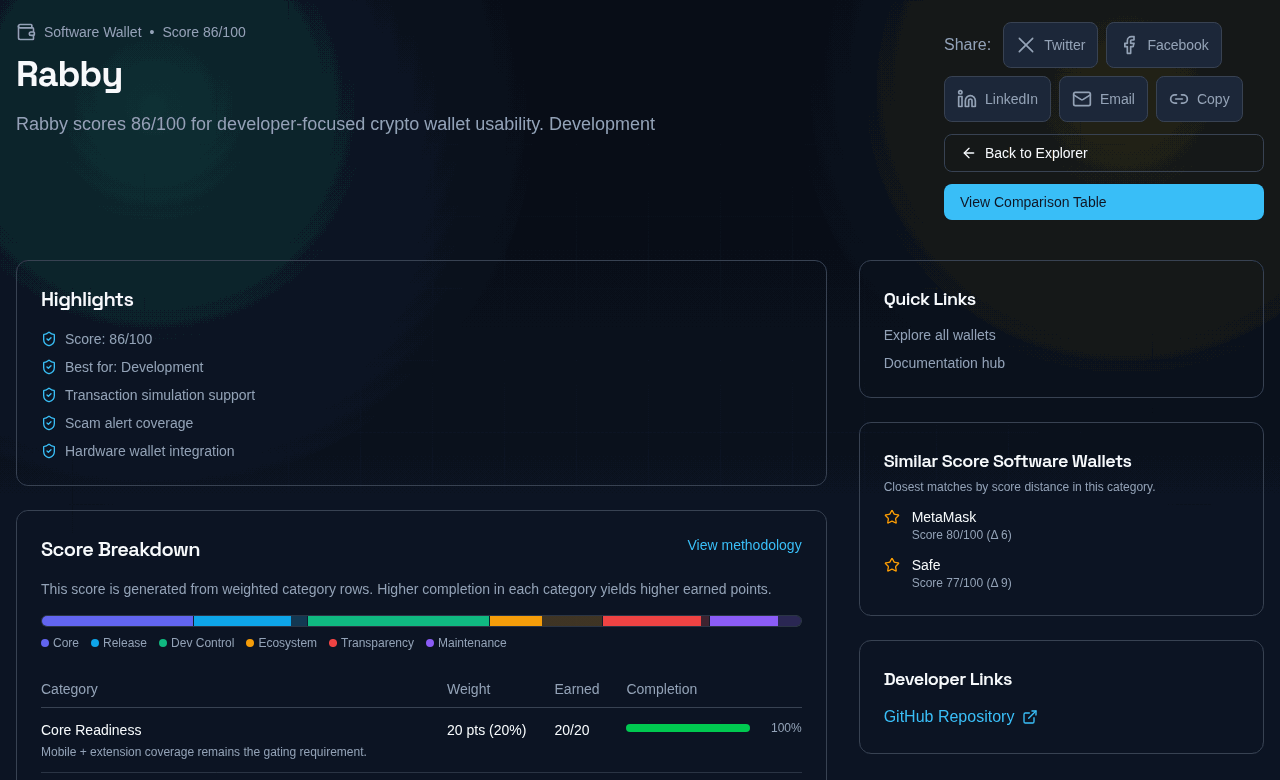
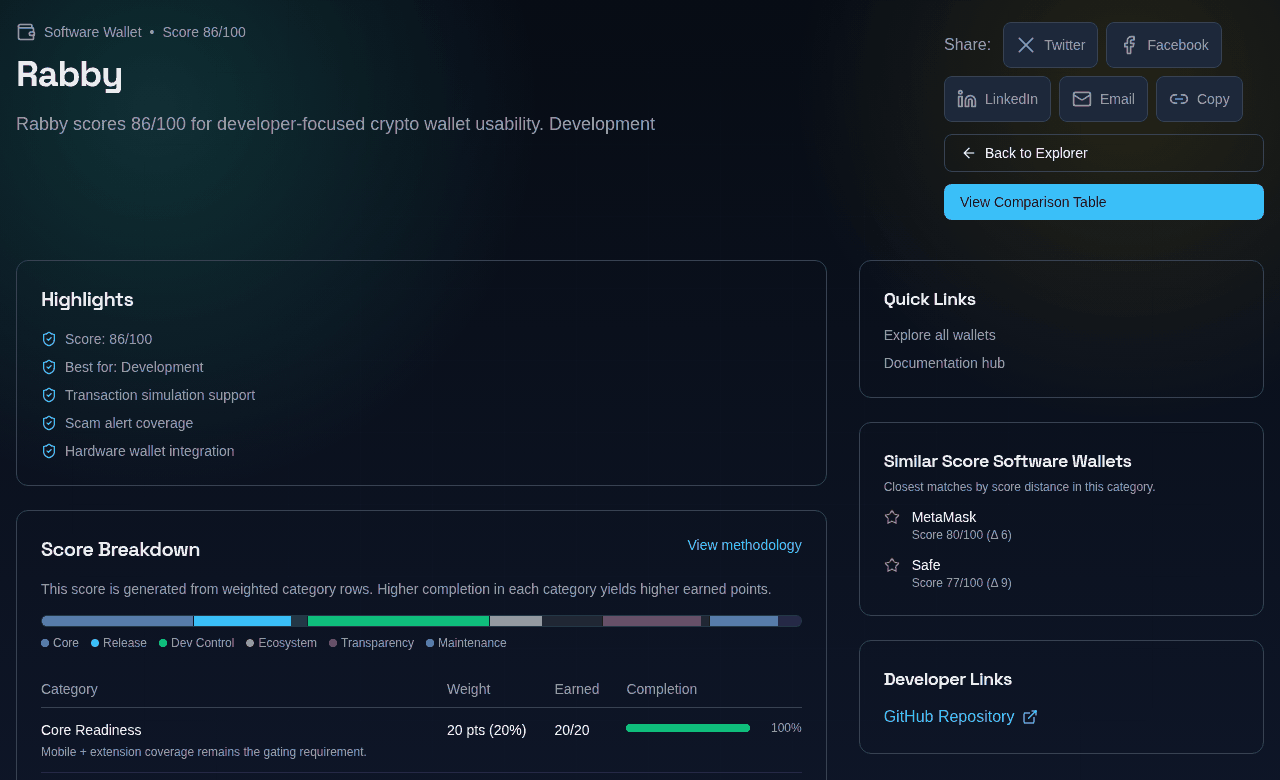
fix(ui): strip ~~ from bestFor; docs: align CONTRIBUTING scoring with code
wallet-data.ts no longer passes markdown strikethrough through bestFor for
cards, ramps and QR payments (vitest case added). CONTRIBUTING.md now
describes methodology 2026-04-visible-columns-v3, the percentile Rec bands,
and the real hardware and ramp category maxima. Article screenshots and the
UI pass after-shots were re-taken from the final build.

diff --git a/tests/best-for-strikethrough.test.ts b/tests/best-for-strikethrough.test.ts
@@ -1,0 +1,40 @@
+/**
+ * wallet-data must not leak markdown strikethrough (~~) into bestFor text.
+ * markdown.ts resolves the repo root from process.cwd() at import time
+ * (it expects to run from frontend/), so cwd is pointed there before the import.
+ * Run with: bunx vitest run tests/best-for-strikethrough.test.ts
+ */
+import path from 'path';
+import { describe, it, expect, beforeAll, vi } from 'vitest';
+
+type Mod = typeof import('../frontend/src/lib/wallet-data');
+let wd: Mod;
+
+beforeAll(async () => {
+  const spy = vi.spyOn(process, 'cwd').mockReturnValue(path.resolve(__dirname, '../frontend'));
+  wd = await import('../frontend/src/lib/wallet-data');
+  spy.mockRestore();
+});
+
+describe('bestFor strikethrough', () => {
+  it('strips ~~ from cards, ramps and QR payments', () => {
+    const spy = vi.spyOn(process, 'cwd').mockReturnValue(path.resolve(__dirname, '../frontend'));
+    const sets = [wd.parseCryptoCards(), wd.parseRamps(), wd.parseQRPayments()];
+    spy.mockRestore();
+    for (const rows of sets) {
+      expect(rows.length).toBeGreaterThan(0);
+      for (const row of rows) {
+        expect(row.bestFor).not.toContain('~~');
+      }
+    }
+  });
+
+  it('keeps the text of struck-through cells', () => {
+    const spy = vi.spyOn(process, 'cwd').mockReturnValue(path.resolve(__dirname, '../frontend'));
+    const cards = wd.parseCryptoCards();
+    spy.mockRestore();
+    const inactive = cards.filter((c) => c.status === 'inactive');
+    expect(inactive.length).toBeGreaterThan(0);
+    for (const card of inactive) expect(card.bestFor.length).toBeGreaterThan(0);
+  });
+});

diff --git a/frontend/src/lib/wallet-data.ts b/frontend/src/lib/wallet-data.ts
@@ -590,7 +590,7 @@ export function parseCryptoCards(): CryptoCard[] {
       provider: name, // Provider is now the card name itself
       providerUrl: cardUrl, // URL now comes from Card column
       status: parseCardStatus(cells[10] || ''),
-      bestFor: cells[11]?.trim() || '',
+      bestFor: cells[11]?.replace(/~~/g, '').trim() || '',
       recommendation: scoreInfo.recommendation as 'recommended' | 'situational' | 'avoid',
       type: 'card' as const,
     };
@@ -674,7 +674,7 @@ export function parseRamps(): Ramp[] {
       foundedYear: Number.isFinite(foundedYear) ? foundedYear : null,
       funding: funding.status,
       fundingSource: funding.source,
-      bestFor: cells[12]?.trim() || '',
+      bestFor: cells[12]?.replace(/~~/g, '').trim() || '',
       recommendation: scoreInfo.recommendation as 'recommended' | 'situational' | 'avoid',
       url,
       type: 'ramp' as const,
@@ -758,7 +758,7 @@ export function parseQRPayments(): QRPayment[] {
       minFee: cells[7]?.trim() || 'None',
       devUx: cells[8]?.trim() || 'Good',
       status: parseCardStatus(cells[9] || ''),
-      bestFor: cells[10]?.trim() || '',
+      bestFor: cells[10]?.replace(/~~/g, '').trim() || '',
       recommendation: parseQRRecommendation(cells[1] || ''), // Uses score emoji
       url,
       type: 'qr-payment' as const,

diff --git a/CONTRIBUTING.md b/CONTRIBUTING.md
@@ -39,7 +39,18 @@ What this does:
 3. Refreshes the generated snapshot blocks near the top of the matching `*_DETAILS.md` files.
 4. Fails the frontend smoke test if the markdown tables drift from the generated output.
 
-Current methodology version: `2026-04-visible-columns-v3`
+Current methodology version: `2026-04-visible-columns-v3` (`SCORING_METHODOLOGY_VERSION` in `frontend/src/lib/scoring.js`).
+
+### How the Rec mark is set
+
+The Rec mark is a rank band, not a fixed score cutoff. `assignRecommendationBands` in `frontend/src/lib/scoring.js` sets it per table every time the sync script or the site build runs:
+
+1. Inactive rows are 🔴 Avoid, whatever their score.
+2. Software wallets only: a row with Core not full, or Developer Safety & Control of 10 or less, is ⚪ Not for dev.
+3. The remaining rows are sorted by score. The bottom 25% are 🔴 Avoid, the next 25% are 🟡 Situational, the top 50% are 🟢 Recommended.
+4. A row with status "launching" cannot be 🟢. It is capped at 🟡.
+
+So the same score can land in different bands in different tables, and in the same table after other rows change. Never write a Rec by hand.
 
 ## Adding a New Software Wallet
 
@@ -132,7 +143,7 @@ Before adding a hardware wallet, verify:
 
 | Column | How to Verify |
 |--------|---------------|
-| **Score** | Calculate using [hardware scoring methodology](#hardware-wallet-scoring) |
+| **Score** | Generated from the visible columns after sync (see [hardware wallet scoring](#hardware-wallet-scoring)) |
 | **Air-Gap** | Check if device requires USB/BT connection during signing |
 | **Open Source** | Find firmware repo on GitHub; verify it's actual firmware, not just SDK |
 | **Secure Element** | Check official specs for SE chip (e.g., ATECC608, Optiga) |
@@ -144,62 +155,16 @@ Before adding a hardware wallet, verify:
 
 ### Hardware Wallet Scoring
 
-Use this formula (100 points total) — prioritizes security, transparency, and activity:
+Hardware scores are generated by `computeHardwareScore` in `frontend/src/lib/scoring.js` from the visible columns. Do not calculate them by hand. The categories and their maximum points (100 in total):
 
 ```
-SECURITY ARCHITECTURE (25 pts)
-  Secure Element present: +8
-  SE certification (EAL6+: +4, EAL5+: +2, EAL7: +6)
-  Air-gap capable (QR/MicroSD only): +8
-  Dual/Triple SE: +3
-  Physical tamper protection: +2
-  No SE, MCU only: -5 penalty
-  
-TRANSPARENCY (20 pts)
-  ✅ Full open source (firmware + bootloader): 20
-  ⚠ Partial (app open, firmware closed): 10-12
-  ⚠ SDK only (no firmware): 5-8
-  ❌ Closed source: 0-5
-  Reproducible builds: +3 bonus
-  Code quality (low issue ratio <15%): +2 bonus
-  High issue ratio (>50%): -2 penalty
-
-PRIVACY & TRUST (15 pts)
-  No seed extraction capability: 15
-  Optional cloud recovery (Ledger Recover): 5 (major penalty)
-  Mandatory cloud features: 0
-  KYC required for purchase: -3 penalty
-
-DEVELOPMENT ACTIVITY (15 pts) — GitHub status
-  ✅ Active (commits ≤30 days): 15
-  ⚠ Slow (1-4 months): 8
-  🔒 Private/closed repo: 5
-  ❌ Inactive (>4 months): 0
-  
-COMPANY & TRACK RECORD (15 pts)
-  🟢 Self-funded & profitable: 12-15
-  🟡 VC-funded, stable: 8-10
-  🔴 Unknown funding: 3-5
-  🔴 Abandoned/pivoted: 0
-  5+ years operation: +3
-  3-5 years: +2
-  Major security breach: -5 penalty
-
-UX & ECOSYSTEM (10 pts)
-  Touch color screen: +4
-  Color LCD with buttons: +3
-  Mono OLED/LCD: +2
-  No screen (NFC card): +0
-  Multi-chain (1000+): +3
-  Multi-chain (100+): +2
-  BTC-only: +1
-  Major software wallet integrations: +2
+Security Architecture        34
+Transparency & Maintenance   28
+Usability & Value            32
+Company Track Record          6
 ```
 
-**Score Interpretation:**
-- 🟢 **75+:** Recommended — meets all criteria, active development
-- 🟡 **50-74:** Situational — has limitations (closed source, inactive, etc.)
-- 🔴 **<50:** Avoid — significant issues (abandoned, no SE, closed source)
+The Founded and Funding columns feed Company Track Record, and the Price column feeds Usability & Value. The Rec mark follows the [rank bands](#how-the-rec-mark-is-set). If you want to change the formula, update the scoring code first, then rerun the sync script.
 
 ### Step 2: Add to Main Table
 
@@ -248,7 +213,7 @@ Before adding a ramp provider, verify:
 
 | Column | How to Verify |
 |--------|---------------|
-| **Score** | Calculate using [ramp scoring methodology](#ramp-scoring) |
+| **Score** | Generated from the visible columns after sync (see [ramp scoring](#ramp-scoring)) |
 | **Type** | Both, On-Ramp only, or Off-Ramp only |
 | **On-Ramp** | ✅ if supports fiat → crypto, ❌ otherwise |
 | **Off-Ramp** | ✅ if supports crypto → fiat, ❌ otherwise |
@@ -258,57 +223,23 @@ Before adding a ramp provider, verify:
 | **Dev UX** | Check developer docs (SDK, Widget, API) |
 | **Status** | ✅ Active, ⚠ Verify (needs verification), 🚧 Launching |
 | **Best For** | Your assessment of ideal use case |
-| **Rec** | 🟢 if score ≥75, 🟡 if 50-74, 🔴 if <50 |
+| **Rec** | Generated by the rank bands (see [How the Rec mark is set](#how-the-rec-mark-is-set)) |
 | **URL** | Official website URL |
 
 ### Ramp Scoring
 
-Use this formula (100 points total) — prioritizes coverage, developer experience, and fees:
+Ramp scores are generated by `computeRampScore` in `frontend/src/lib/scoring.js` from the visible columns. Do not calculate them by hand. The categories and their maximum points (100 in total):
 
 ```
-COVERAGE (25 pts)
-  160+ countries = 25
-  100-159 countries = 20
-  50-99 countries = 15
-  10-49 countries = 10
-  <10 countries = 5
-  US-only = 8
-  EU-only = 10
-
-FEE STRUCTURE (20 pts)
-  Low fees (<1%) = 20
-  Medium fees (1-3%) = 15
-  High fees (>3%) = 10
-  Variable/custom = 12
-  Unknown = 5
-
-DEVELOPER EXPERIENCE (20 pts)
-  Excellent (React SDK, great docs) = 20
-  Great (Widget, good docs) = 15
-  Good (API/SDK, basic docs) = 10
-  Basic (Widget only, minimal docs) = 5
-
-SUPPORTED CHAINS/ASSETS (15 pts)
-  Multi-chain (10+ chains) = 15
-  Multi-chain (5-9 chains) = 12
-  Multi-chain (2-4 chains) = 8
-  Single chain = 5
-
-KYC/COMPLIANCE (10 pts)
-  Clear KYC requirements = 10
-  Variable (risk-based) = 8
-  Unknown = 5
-
-RELIABILITY (10 pts)
-  Established provider (2+ years) = 10
-  New but active = 7
-  Unknown/verify = 5
+Coverage                 25
+Product Breadth          15
+Developer UX             18
+Pricing Shape            25
+Operational Confidence   15
+Company Track Record      2
 ```
 
-**Score Interpretation:**
-- 🟢 **75+:** Recommended — excellent coverage, good dev UX, reasonable fees
-- 🟡 **50-74:** Situational — has limitations (limited coverage, higher fees, etc.)
-- 🔴 **<50:** Avoid — significant issues (very limited coverage, poor dev UX, etc.)
+Operational Confidence comes from the Status column: 15 for active, 9 for verify, 5 for launching, 0 otherwise. Pricing Shape adds the Fee Model and Min Fee points. The Rec mark follows the [rank bands](#how-the-rec-mark-is-set). Inactive and launching rows are handled by the band rules.
 
 ### Step 2: Add to Main Table
 

diff --git a/docs/ui-pass-2026-10/README.md b/docs/ui-pass-2026-10/README.md
@@ -2,7 +2,9 @@
 
 Full-page screenshots in light mode, taken with headless Chromium (Playwright). "Before" is the site built from `main` before the UI pass (#114). "After" is the site built from the UI pass branch. Each pair is shown at 1280 px and 375 px wide.
 
-Files are palette-reduced PNGs of 200 KB or less. Both Cards 1280 px shots were scaled down to fit (before 796 px wide, after 768 px wide), so they are not at the same scale as the others. The "after" shots were taken before the last small commit on the UI branch (tooltip contrast and search retry), so tooltips may differ from `main`.
+Files are palette-reduced PNGs of 200 KB or less. Three 1280 px shots were scaled down to fit that limit, so they are not at the same scale as the rest: before Cards 796 px wide, after Cards 575 px wide, after Home 767 px wide, before Ramps shows 1286 px (it overflowed horizontally before the UI pass).
+
+The "after" shots were re-taken from the final branch build, after the `~~` strikethrough fix in `wallet-data.ts`, so the Cards page no longer shows literal tildes. The "before" shots come from the earlier `main` build and still show them.
 
 | Page | 1280 px before | 1280 px after | 375 px before | 375 px after |
 |---|---|---|---|---|
